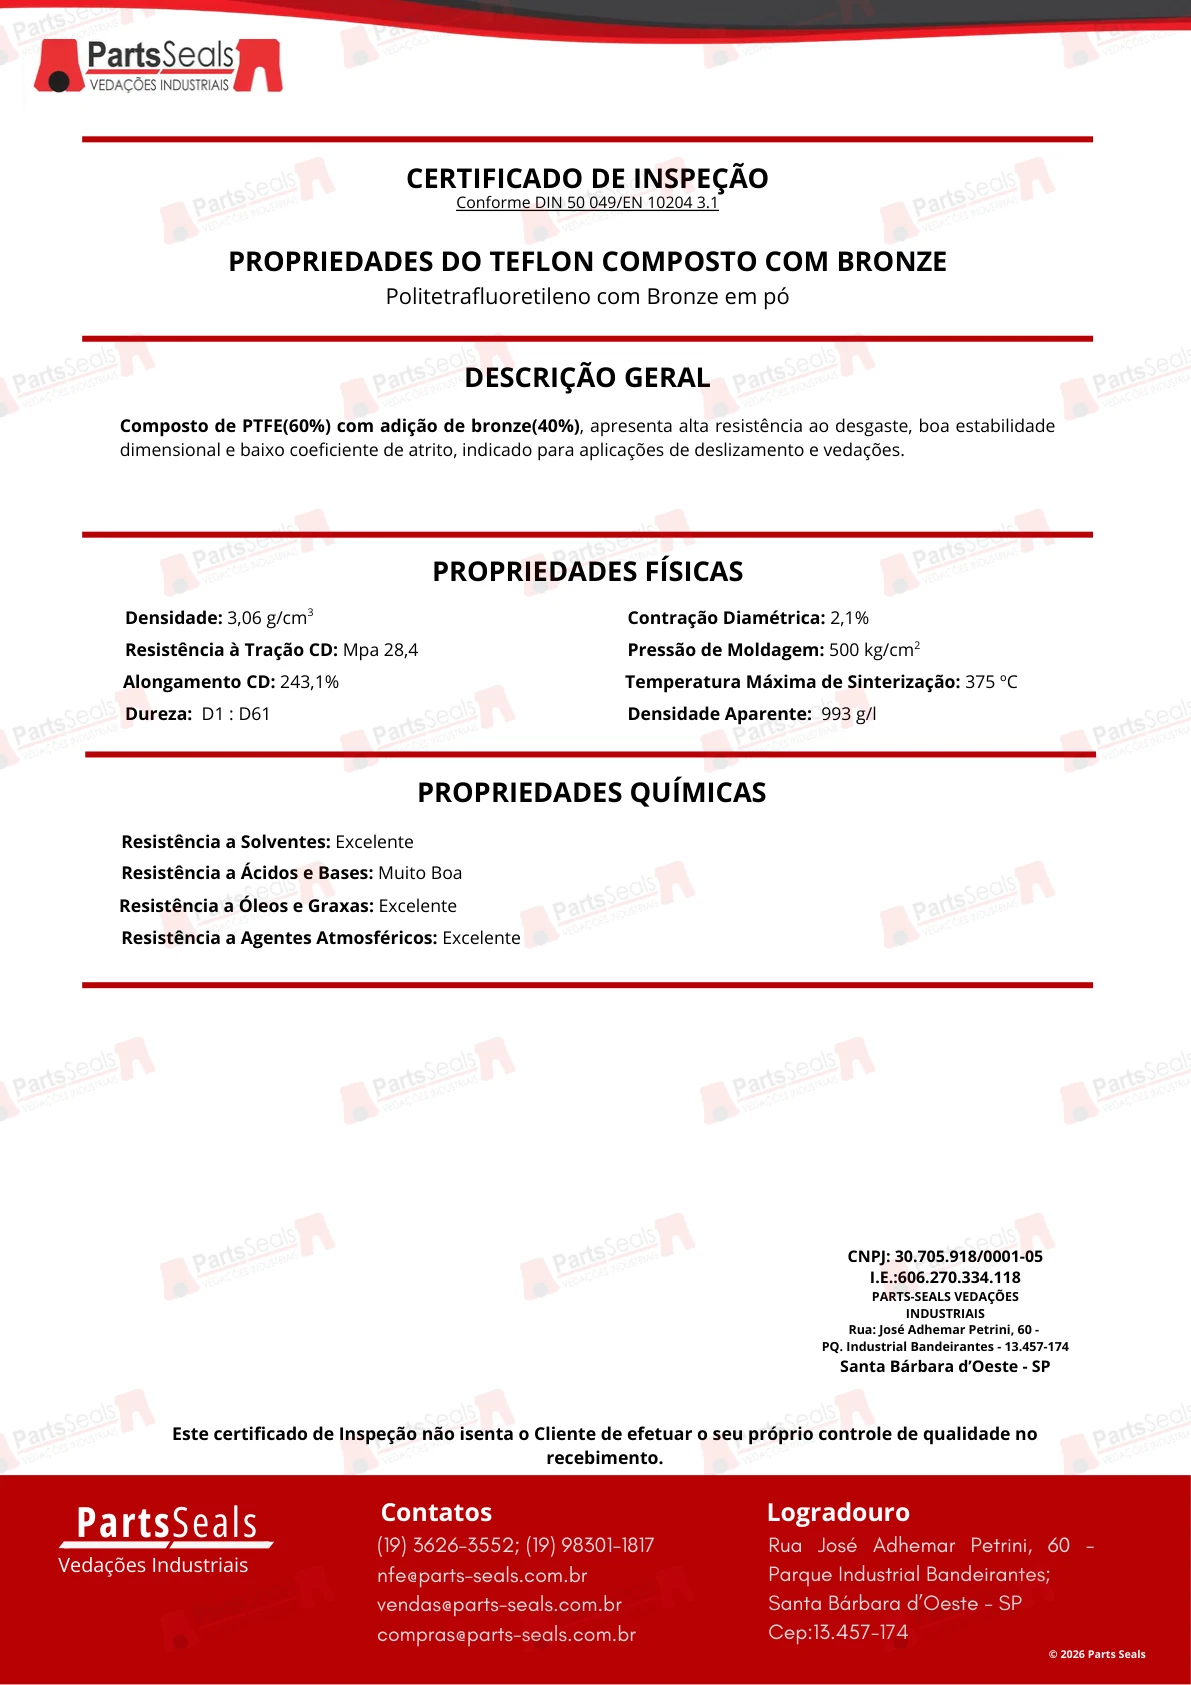
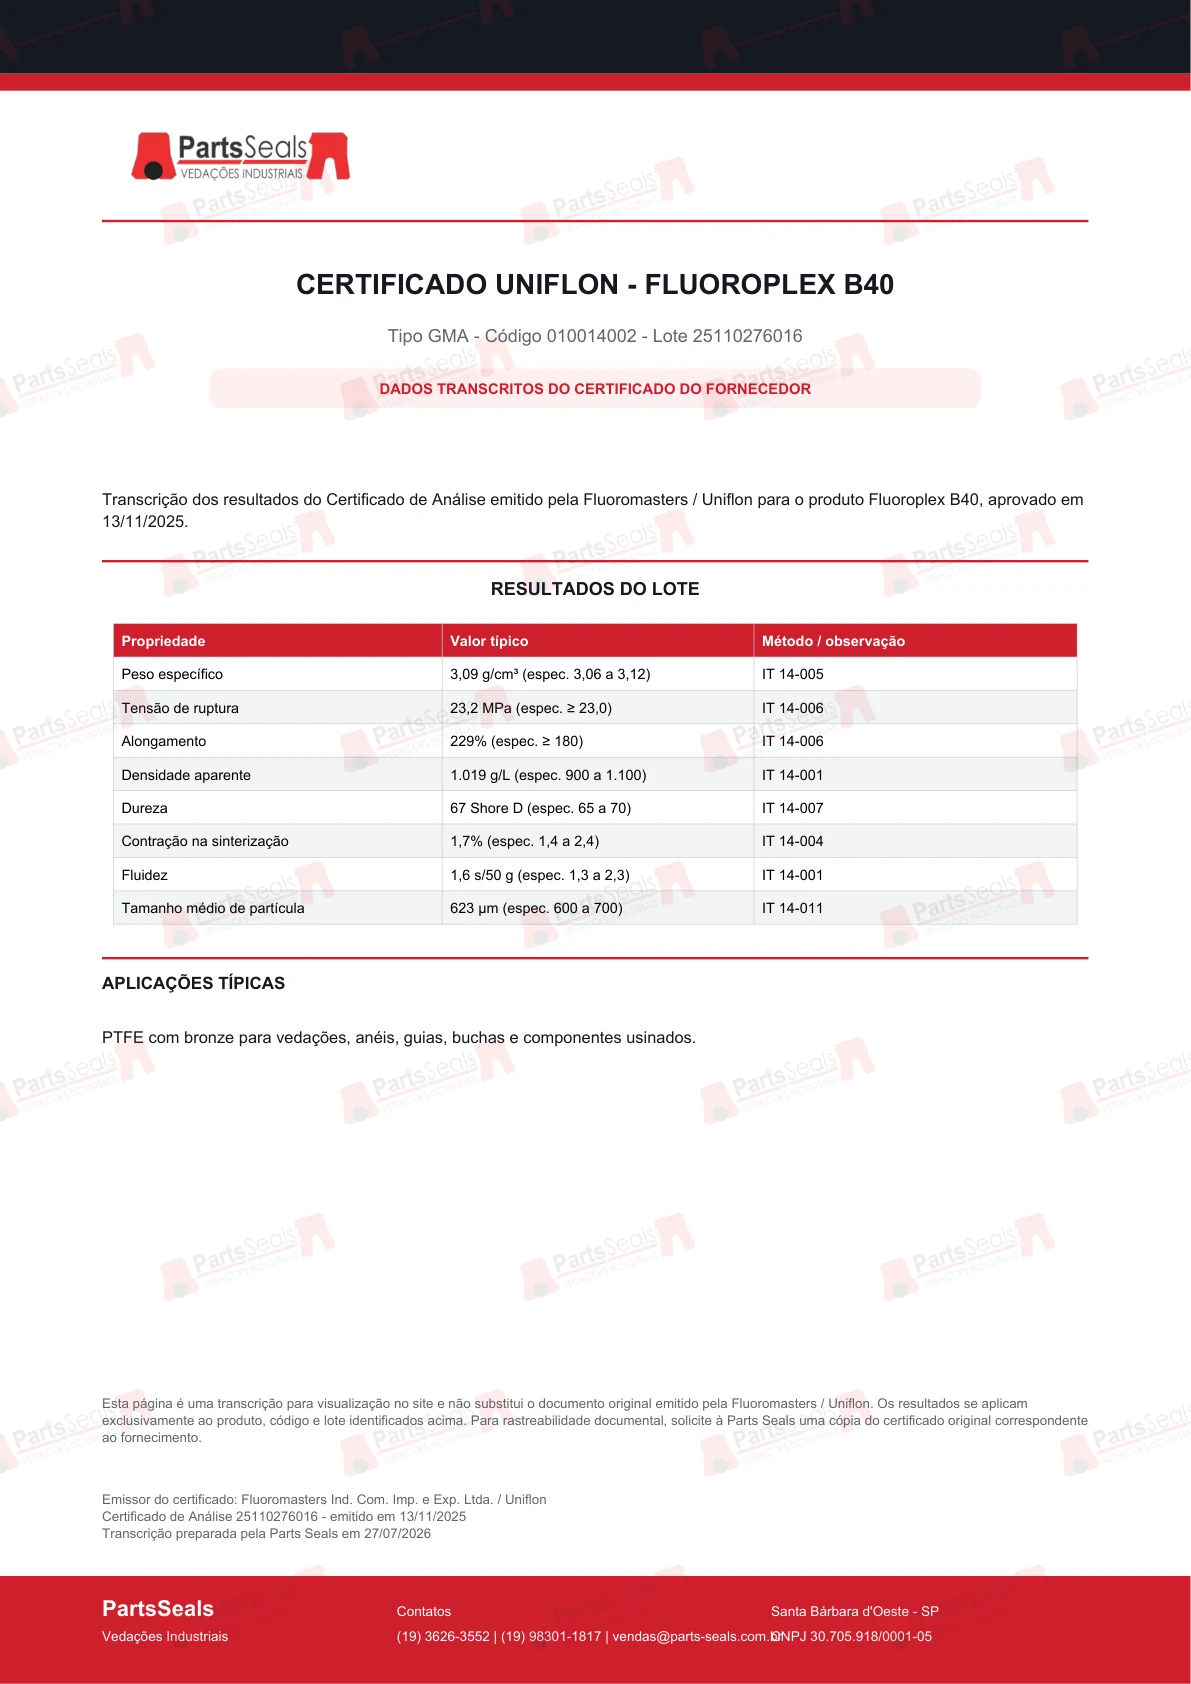
Atualiza PTFE bronze com certificado Uniflon

Changed region(s): [[0.0, 0.0, 1.0, 0.5867], [0.0, 0.7411, 1.0, 1.0]]

diff --git a/materiais.html b/materiais.html
@@ -125,14 +125,14 @@
           </article>
 
           <article class="material-library-card">
-            <header class="material-library-card__header"><span class="material-library-card__code">PTFE<br>BR</span><div><h3>PTFE com bronze</h3><span class="material-library-card__family">Desgaste e carga</span></div></header>
-            <p>A carga de bronze melhora resistência ao desgaste, condutividade térmica e estabilidade sob compressão em aplicações de movimento.</p>
+            <header class="material-library-card__header"><span class="material-library-card__code">PTFE<br>BR</span><div><h3>PTFE com bronze</h3><span class="material-library-card__family">Uniflon Fluoroplex B40</span></div></header>
+            <p>Material fornecido pela Uniflon, com resultados reais do lote 25110276016 aprovado em 13/11/2025. A carga de bronze favorece desgaste, condução térmica e estabilidade sob compressão.</p>
             <dl class="material-spec-list">
               <div><dt>Indicado para</dt><dd>Sistemas hidráulicos, cargas elevadas e contato com superfícies metálicas.</dd></div>
               <div><dt>Perfis e peças</dt><dd>Anéis guia, buchas, bandas de desgaste, vedações e mancais.</dd></div>
               <div><dt>Atenções</dt><dd>Compatibilidade química e possível abrasividade do composto devem ser avaliadas.</dd></div>
             </dl>
-            <div class="material-library-card__actions"><button type="button" class="datasheet-open" data-datasheet-open data-sheet-title="PTFE com bronze — dados técnicos" data-sheet-images="assets/datasheets-view/ptfe-bronze-p1.webp">Visualizar datasheet</button></div>
+            <div class="material-library-card__actions"><button type="button" class="datasheet-open" data-datasheet-open data-sheet-title="Uniflon Fluoroplex B40 — certificado do lote 25110276016" data-sheet-images="assets/datasheets-view/ptfe-bronze-p1.webp">Certificado Uniflon</button></div>
           </article>
 
           <article class="material-library-card">

diff --git a/tools/build_datasheets.py b/tools/build_datasheets.py
@@ -82,6 +82,30 @@ FONT_REGULAR, FONT_BOLD = register_fonts()
 
 REFERENCE_SHEETS = [
     {
+        "filename": "Certificado Uniflon - Fluoroplex B40 - Lote 25110276016.pdf",
+        "title": "CERTIFICADO UNIFLON - FLUOROPLEX B40",
+        "subtitle": "Tipo GMA - Código 010014002 - Lote 25110276016",
+        "description": (
+            "Transcrição dos resultados do Certificado de Análise emitido pela "
+            "Fluoromasters / Uniflon para o produto Fluoroplex B40, aprovado em "
+            "13/11/2025."
+        ),
+        "properties": [
+            ("Peso específico", "3,09 g/cm³ (espec. 3,06 a 3,12)", "IT 14-005"),
+            ("Tensão de ruptura", "23,2 MPa (espec. ≥ 23,0)", "IT 14-006"),
+            ("Alongamento", "229% (espec. ≥ 180)", "IT 14-006"),
+            ("Densidade aparente", "1.019 g/L (espec. 900 a 1.100)", "IT 14-001"),
+            ("Dureza", "67 Shore D (espec. 65 a 70)", "IT 14-007"),
+            ("Contração na sinterização", "1,7% (espec. 1,4 a 2,4)", "IT 14-004"),
+            ("Fluidez", "1,6 s/50 g (espec. 1,3 a 2,3)", "IT 14-001"),
+            ("Tamanho médio de partícula", "623 µm (espec. 600 a 700)", "IT 14-011"),
+        ],
+        "applications": "PTFE com bronze para vedações, anéis, guias, buchas e componentes usinados.",
+        "source": "Fluoromasters Ind. Com. Imp. e Exp. Ltda. / Uniflon",
+        "source_url": "Certificado de Análise 25110276016 - emitido em 13/11/2025",
+        "document_kind": "supplier_certificate",
+    },
+    {
         "filename": "Ficha Técnica de Referência - PTFE Virgem - Parts Seals 2026.pdf",
         "title": "PROPRIEDADES DO PTFE VIRGEM",
         "subtitle": "Politetrafluoretileno não aditivado",
@@ -294,7 +318,12 @@ REFERENCE_SHEETS = [
 
 DOC_SPECS = [
     ("poliacetal - dados tecnicos", "poliacetal-dados", "Poliacetal - dados técnicos", "Ficha técnica"),
-    ("bronze", "ptfe-bronze", "PTFE com bronze", "Certificado de inspeção"),
+    (
+        "fluoroplex b40",
+        "ptfe-bronze",
+        "PTFE com bronze - Uniflon Fluoroplex B40",
+        "Certificado de análise Uniflon",
+    ),
     ("fibra de carbono", "ptfe-carbono", "PTFE com fibra de carbono", "Certificado de inspeção"),
     ("fibra de vidro", "ptfe-vidro", "PTFE com fibra de vidro", "Certificado de inspeção"),
     ("viton", "fkm-viton", "FKM / Viton", "Certificado de inspeção"),
@@ -375,11 +404,17 @@ def create_reference_sheet(spec: dict, output_path: Path) -> None:
     subtitle = wrap_paragraph(spec["subtitle"], subtitle_style, width - 40 * mm, 15 * mm)
     subtitle.drawOn(pdf, 20 * mm, height - 61 * mm)
 
+    is_supplier_certificate = spec.get("document_kind") == "supplier_certificate"
     pdf.setFillColor(colors.HexColor("#fff0f1"))
     pdf.roundRect(37 * mm, height - 72 * mm, width - 74 * mm, 7 * mm, 2 * mm, fill=1, stroke=0)
     pdf.setFillColor(RED)
     pdf.setFont(FONT_BOLD, 7.4)
-    pdf.drawCentredString(width / 2, height - 69.5 * mm, "FICHA TÉCNICA DE REFERÊNCIA - NÃO É CERTIFICADO DE LOTE")
+    banner_text = (
+        "DADOS TRANSCRITOS DO CERTIFICADO DO FORNECEDOR"
+        if is_supplier_certificate
+        else "FICHA TÉCNICA DE REFERÊNCIA - NÃO É CERTIFICADO DE LOTE"
+    )
+    pdf.drawCentredString(width / 2, height - 69.5 * mm, banner_text)
 
     description = wrap_paragraph(spec["description"], body_style, width - 36 * mm, 30 * mm)
     description.drawOn(pdf, 18 * mm, height - 94 * mm)
@@ -389,7 +424,8 @@ def create_reference_sheet(spec: dict, output_path: Path) -> None:
     pdf.line(18 * mm, y, width - 18 * mm, y)
     pdf.setFont(FONT_BOLD, 9)
     pdf.setFillColor(DARK)
-    pdf.drawCentredString(width / 2, y - 6 * mm, "PROPRIEDADES TÍPICAS DE REFERÊNCIA")
+    table_title = "RESULTADOS DO LOTE" if is_supplier_certificate else "PROPRIEDADES TÍPICAS DE REFERÊNCIA"
+    pdf.drawCentredString(width / 2, y - 6 * mm, table_title)
 
     data = [["Propriedade", "Valor típico", "Método / observação"]] + [
         [item[0], item[1], item[2]] for item in spec["properties"]
@@ -428,15 +464,31 @@ def create_reference_sheet(spec: dict, output_path: Path) -> None:
     applications.drawOn(pdf, 18 * mm, application_y - 8 * mm)
 
     note_text = (
-        "Valores típicos do grau de referência citado e não valores de especificação do material "
-        "fornecido pela Parts Seals. Propriedades variam conforme fabricante, formulação, "
-        "processamento, condição de ensaio, umidade e lote. A seleção final exige validação da "
-        "aplicação e, quando necessário, certificado do lote efetivamente fornecido."
+        "Esta página é uma transcrição para visualização no site e não substitui o documento "
+        "original emitido pela Fluoromasters / Uniflon. Os resultados se aplicam exclusivamente "
+        "ao produto, código e lote identificados acima. Para rastreabilidade documental, solicite "
+        "à Parts Seals uma cópia do certificado original correspondente ao fornecimento."
+        if is_supplier_certificate
+        else (
+            "Valores típicos do grau de referência citado e não valores de especificação do material "
+            "fornecido pela Parts Seals. Propriedades variam conforme fabricante, formulação, "
+            "processamento, condição de ensaio, umidade e lote. A seleção final exige validação da "
+            "aplicação e, quando necessário, certificado do lote efetivamente fornecido."
+        )
     )
     note = wrap_paragraph(note_text, small_style, width - 36 * mm, 30 * mm)
     note.drawOn(pdf, 18 * mm, 42 * mm)
 
-    source_text = f"<b>Fonte de referência:</b> {spec['source']}<br/>{spec['source_url']}<br/>Consulta: 27/07/2026"
+    source_label = "Emissor do certificado" if is_supplier_certificate else "Fonte de referência"
+    source_date = (
+        "Transcrição preparada pela Parts Seals em 27/07/2026"
+        if is_supplier_certificate
+        else "Consulta: 27/07/2026"
+    )
+    source_text = (
+        f"<b>{source_label}:</b> {spec['source']}<br/>{spec['source_url']}<br/>"
+        f"{source_date}"
+    )
     source = wrap_paragraph(source_text, small_style, width - 36 * mm, 25 * mm)
     source.drawOn(pdf, 18 * mm, 25 * mm)
 
